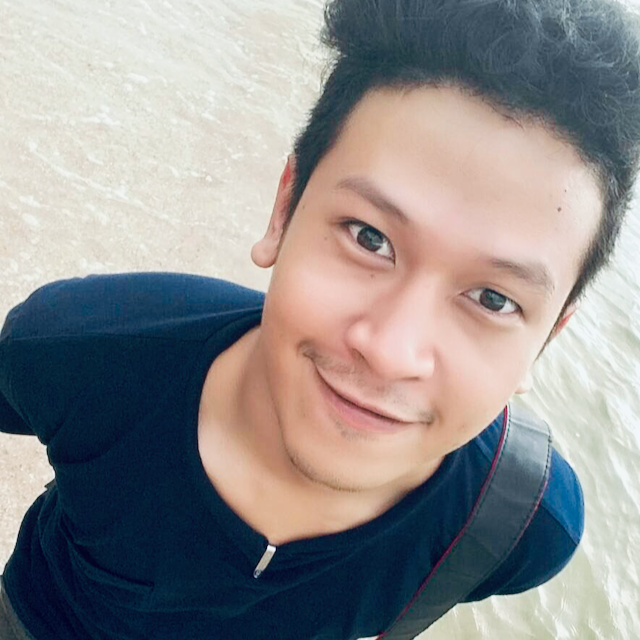
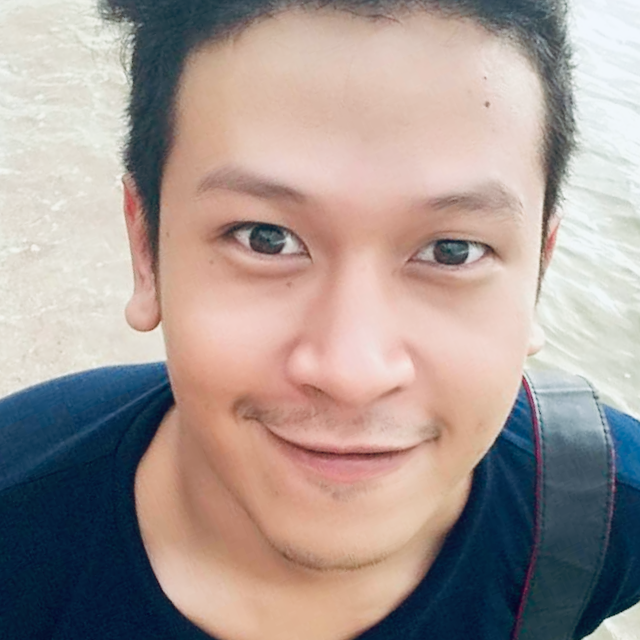
Update layouts

diff --git a/src/template.html b/src/template.html
@@ -27,17 +27,17 @@
 
   <!-- **** Hero Section **** -->
   <div id="hero" class="jumbotron">
-    <div class="container">
-      <h1 class="hero-title" class="load-hidden">
-        Hi, my name is <span class="text-color-main">Kanitphong Sakonsinsiri</span>
-        <br />
-        I'm the Developer you need.
-      </h1>
-      <p class="hero-cta" class="load-hidden">
-        <a class="cta-btn cta-btn--hero" href="#about">About me!</a>
-      </p>
+      <div class="container">
+        <h1 class="hero-title" class="load-hidden">
+          Hi, my name is <span class="text-color-main">Kanitphong Sakonsinsiri</span>
+          <br />
+          I'm the Developer you need.
+        </h1>
+        <p class="hero-cta" class="load-hidden">
+          <a class="cta-btn cta-btn--hero" href="#about">About me!</a>
+        </p>
+      </div>
     </div>
-  </div>
   <!-- /END Hero Section -->
 
   <!-- **** About Section **** -->
@@ -59,29 +59,19 @@
               Specializing in front end and back end development. Experienced with all stages of the development cycle
               for dynamic web projects
             </p>
-            <p class="about-wrapper__info-text">
-              Microsoft Windows systems administrator with experience configuring, monitoring, upgrading and maintaining
-              systems hardware, software and related infrastructure
-            </p>
             <p class="about-wrapper__info-skill-label">
               Programming/Languages:
             </p>
             <p class="about-wrapper__info-skill">
-              C, C++, Visual Basic, JAVA, PHP, SQL, Javascript
+              Javascript, PHP, SQL
             </p>
-            <p class="about-wrapper__info-skill-label">Version Code Control:</p>
-            <p class="about-wrapper__info-skill">Git</p>
             <p class="about-wrapper__info-skill-label">Databases & DBMS:</p>
-            <p class="about-wrapper__info-skill">MS SQL Server, MS Access, MySQL, MongoDB, MariaDB, MySQL Workbench
+            <p class="about-wrapper__info-skill">PostgreSQL, MySQL , MariaDB, MongoDB, SQL Server
             </p>
             <p class="about-wrapper__info-skill-label">Design & IDE Tools:</p>
-            <p class="about-wrapper__info-skill">MVC, UML, OOP, VIM, VSCode, Entity Relationship Model</p>
-            <p class="about-wrapper__info-skill-label">Office Tools:</p>
-            <p class="about-wrapper__info-skill">MS Word, Excel, PowerPoint, Outlook, Visio, Pages, Numbers, Keynote</p>
-            <p class="about-wrapper__info-skill-label">Operating Systems:</p>
-            <p class="about-wrapper__info-skill">Windows 7/Vista/Server 2003-16, Mac OS X, Linux
-              Ubuntu/Server/CentOS</p>
-            </p>
+            <p class="about-wrapper__info-skill">MVC, UML, OOP,  Entity Relationship Model , VIM, VSCode</p>
+            <p class="about-wrapper__info-skill-label">Other:</p>
+            <p class="about-wrapper__info-skill">Docker</p>
             <span class="d-flex mt-3">
               <a target="_blank" class="cta-btn cta-btn--resume" href="#!">
                 View Resume
@@ -95,10 +85,10 @@
   <!-- /END About Section -->
 
   <!-- **** Skills Section **** -->
-  <section id="skills"></section>
+  <!-- <section id="skills"></section> -->
 
   <!-- **** Experience Section **** -->
-  <section id="experience"></section>
+  <!-- <section id="experience"></section> -->
 
   <!-- **** Projects Section **** -->
   <section id="projects">

diff --git a/webpack.config.js b/webpack.config.js
@@ -1,23 +1,24 @@
-const Webpack = require("webpack");
+const Webpack = require('webpack');
 const config = {
   entry: {
-    vendor: "./src/vendor.js",
-    main: "./src/index.js"
+    vendor: './src/vendor.js',
+    main: './src/index.js'
   },
   module: {
     rules: [
       {
         test: /\.html$/,
-        use: ["html-loader"]
+        use: ['html-loader']
       },
       {
         test: /\.(jpg|jpeg|png|gif|svg|pdf)$/,
         use: [
           {
-            loader: "file-loader",
+            loader: 'file-loader',
             options: {
-              name: "[name].[hash].[ext]",
-              outputPath: "assets"
+              name: '[name].[hash].[ext]',
+              outputPath: 'assets',
+              publicPath: 'assets'
             }
           }
         ]
@@ -27,8 +28,8 @@ const config = {
   // This config allows to use jQuery $ sign
   plugins: [
     new Webpack.ProvidePlugin({
-      $: "jquery",
-      jQuery: "jquery"
+      $: 'jquery',
+      jQuery: 'jquery'
     })
   ]
 };

diff --git a/src/style/sections/_hero.scss b/src/style/sections/_hero.scss
@@ -6,7 +6,7 @@
   border-bottom: 0px;
   background: $white-color;
   font-weight: 400;
-  color: $dark-blue-text;
+  color: $white-color;
   padding: 0rem 5.6rem;
   margin-bottom: 0;
   position: fixed;
@@ -17,10 +17,14 @@
   z-index: -1;
 
   // If you want to set a background image on the hero section, uncomment these with yout custom image
-
-  /* background: url("/src/assets/[your-image].png");
+  // background: url('/src/assets/backdrop.jpg');
+  // background-position: center;
+  // background-size: cover;
+  background: linear-gradient(to bottom, #{fade-out($brown, .2)} 0%,#{fade-out($brown, .2)} 100%), url('/src/assets/backdrop.jpg');
   background-position: center;
-  background-size: cover; */
+  background-repeat: no-repeat;
+  background-size: cover; 
+  // background-attachment: scroll;
 
   @include respond(phone) {
     padding: 0rem $default-font-size;

diff --git a/src/style/components/_images.scss b/src/style/components/_images.scss
@@ -1,7 +1,10 @@
 .profile {
-
-    &-image {
-
-        border-radius: 50% !important;
-    }
+  &-image {
+    border-radius: 50% !important;
+    display: block;
+    width: 350px;
+    height: 350px;
+    margin: 1rem auto;
+    box-shadow: 0 3px 2px rgba(0, 0, 0, 0.3);
+  }
 }

diff --git a/src/style/sections/_contact.scss b/src/style/sections/_contact.scss
@@ -7,7 +7,7 @@
   -webkit-clip-path: polygon(0 15vh, 100% 0, 100% 100%, 0 100%);
   clip-path: polygon(0 15vh, 100% 0, 100% 100%, 0 100%);
   padding: 15rem 0 10rem 0;
-  margin-top: -10rem;
+  margin-top: -18.5rem;
   margin-bottom: -1px;
   color: $white-color;
 

diff --git a/src/style/abstracts/_variables.scss b/src/style/abstracts/_variables.scss
@@ -8,7 +8,12 @@ $dark-grey: #333333;
 
 $dark-blue-text: #272341; // For Headings
 
+$brown: #5c4d42 !default;
+
 // FONT SIZE
 $default-font-size: 1.6rem;
 $big-font-size: 4rem;
 $mid-font-size: 2.5rem;
+
+// NAV
+$navbar-height: 72px

diff --git a/src/style/sections/_projects.scss b/src/style/sections/_projects.scss
@@ -1,7 +1,7 @@
 #projects {
   background-color: $white-color;
   color: $dark-blue-text;
-  margin-top: -10rem;
+  margin-top: -13rem;
   padding-top: 15rem;
 
   @include respond(tab-land) {
